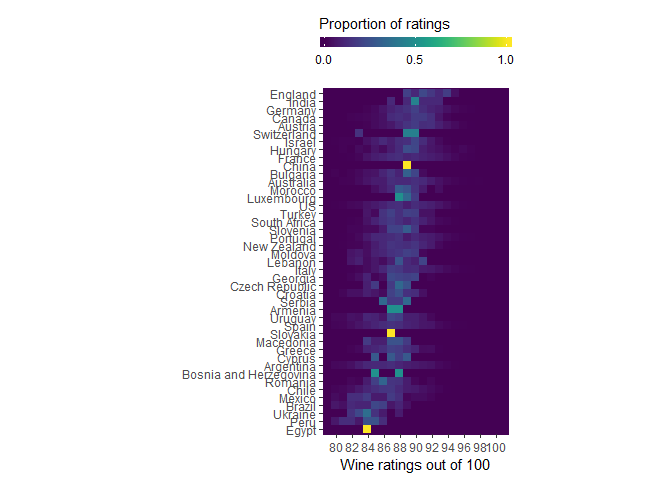
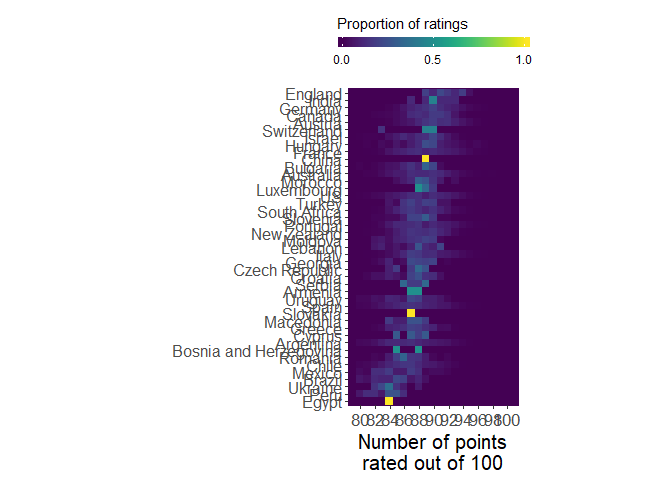
Resized font

Changed region(s): [[0.25, 0.1875, 0.7812, 1.0], [0.4688, 0.0312, 0.8125, 0.1562]]

diff --git a/week22_wine.md b/week22_wine.md
@@ -87,9 +87,12 @@ plot1 <- sum_by_country_by_interval %>%
   theme(panel.background = element_rect(fill=viridis(100)[1],
                                         colour=viridis(100)[1]),
         panel.grid = element_blank(),
+        axis.text.x = element_text(size=13),
+        axis.text.y = element_text(size=12),
+        axis.title.x = element_text(size=15),
         legend.position = 'top') +
   coord_equal() +
-  labs(fill = 'Proportion of ratings', y = '', x = 'Wine ratings out of 100')
+  labs(fill = 'Proportion of ratings', y = '', x = 'Number of points\nrated out of 100')
 plot1
 ```
 
@@ -111,7 +114,8 @@ plot2 <- wine_data %>% count(country) %>%
         axis.text.y = element_blank(),
         panel.grid.major.x= element_line(color = 'grey', 
                                          lineend = 'round',
-                                         linetype = 'dashed')) +
+                                         linetype = 'dashed'),
+        axis.title.x = element_text(size = 15)) +
   coord_flip() +
   labs(y = 'Number of ratings', x = '')
 plot2
@@ -122,7 +126,7 @@ plot2
 put em together
 
 ``` r
-plot3 <- ggarrange(plot1, plot2, nrow = 1)
+plot3 <- egg::ggarrange(plot1, plot2, nrow = 1)
 ```
 
 ![](week22_wine_files/figure-gfm/unnamed-chunk-6-1.png)<!-- -->
@@ -131,7 +135,7 @@ Save
 plot
 
 ``` r
-png('plots/week22_wine.png', units = 'in', height = 10, width = 8, res = 300)
+png('plots/week22_wine.png', units = 'in', height = 14, width = 12, res = 300)
 print(plot3)
 dev.off()
 ```
